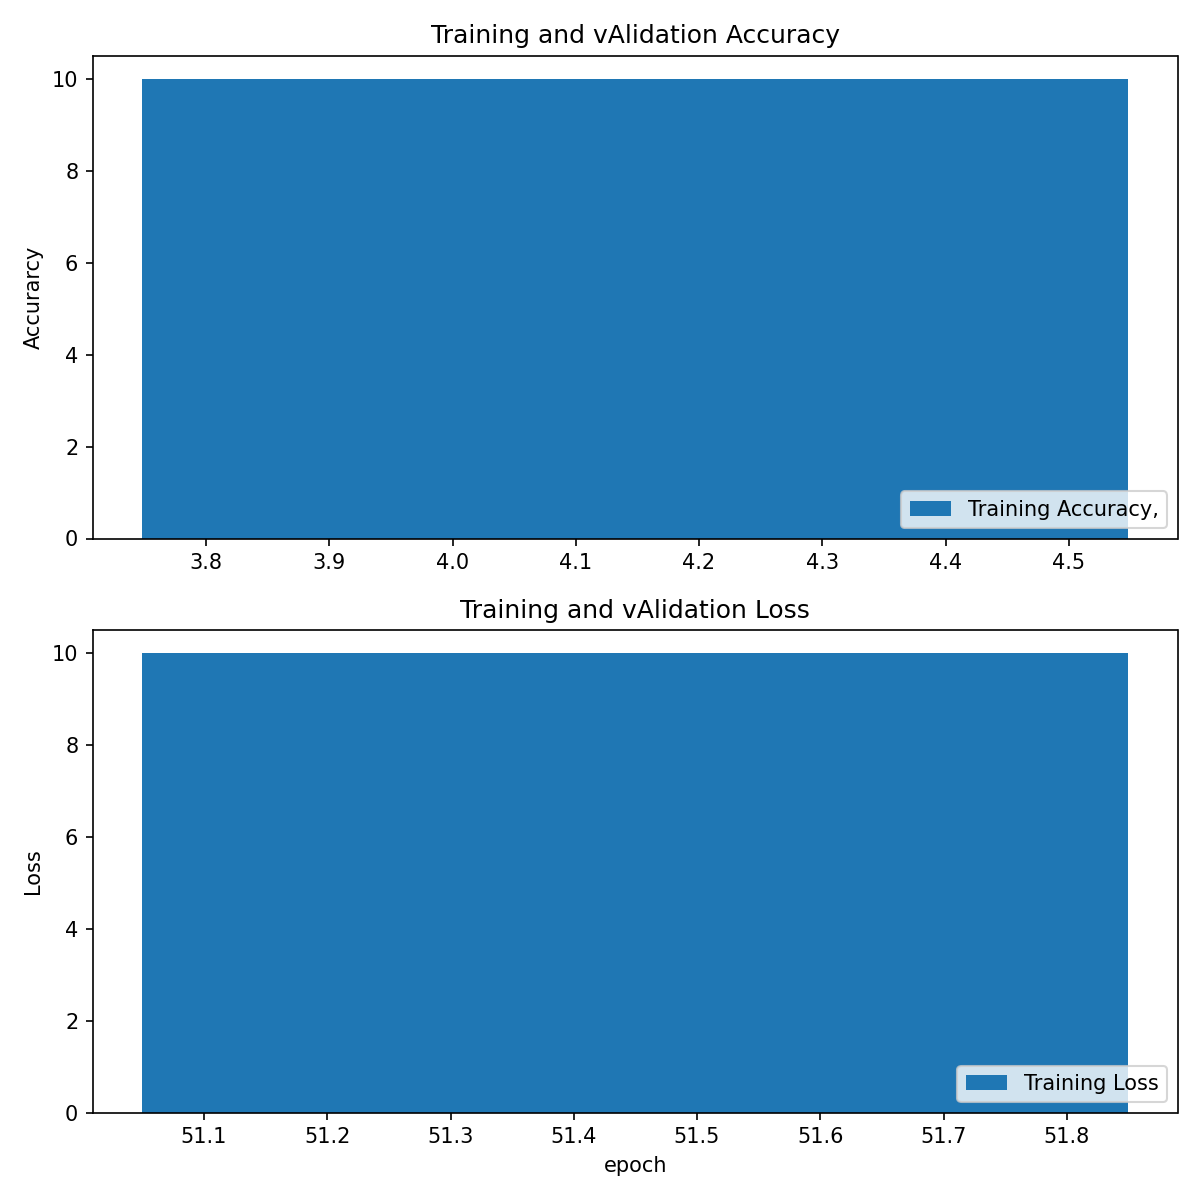
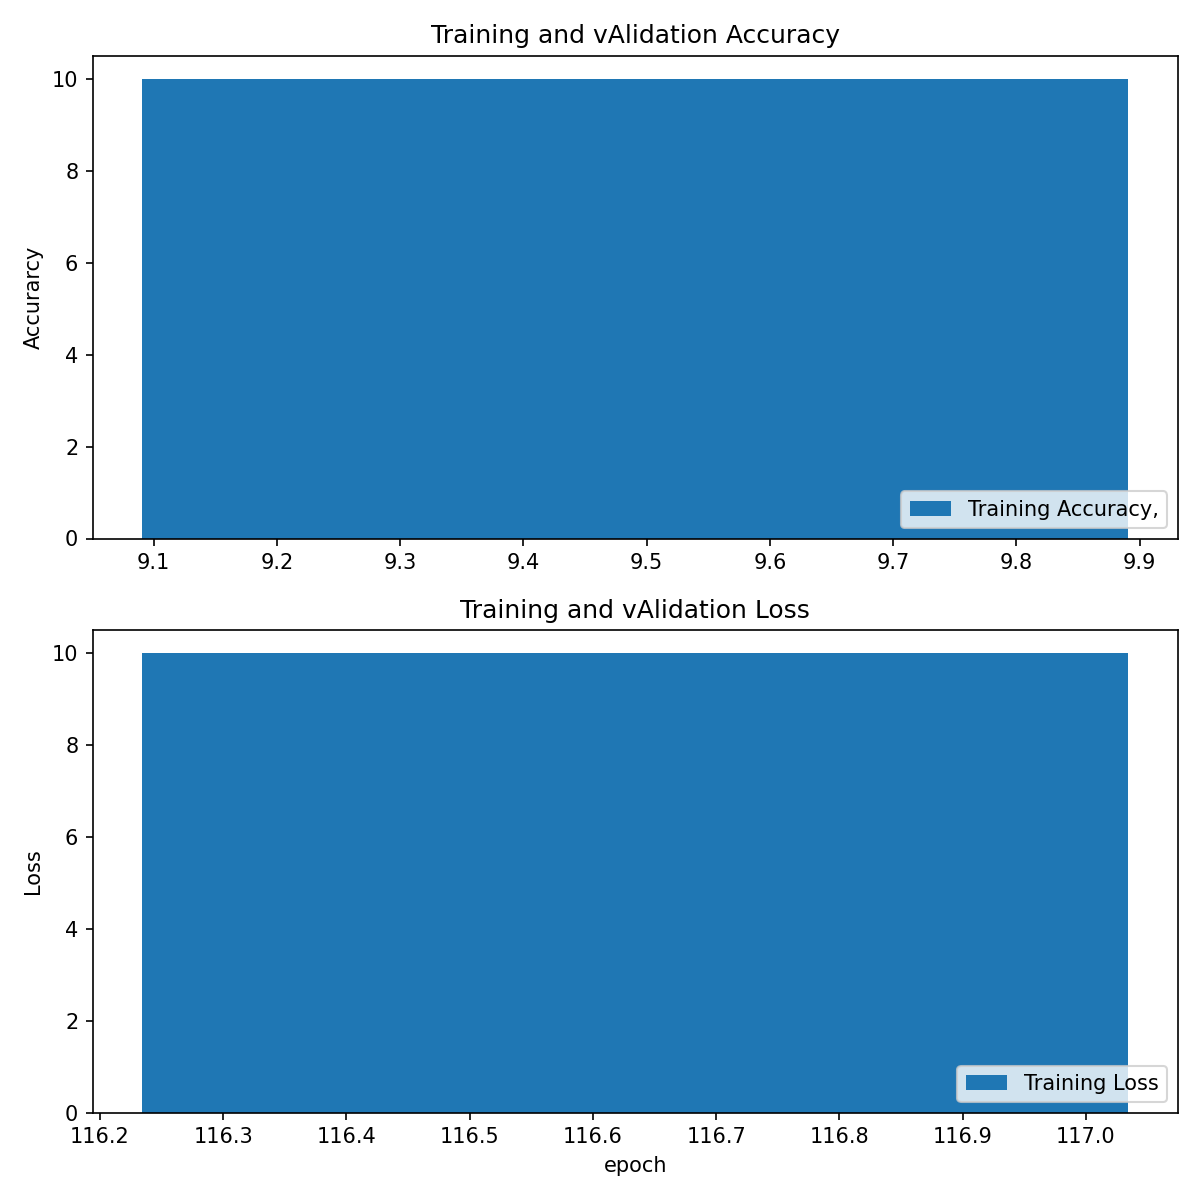
added wgan first phase

diff --git a/src/models/wgangp.py b/src/models/wgangp.py
@@ -15,14 +15,127 @@ logger = tf.get_logger()
 logger.setLevel(logging.ERROR)
 
 
+
+crossEntropy = tf.keras.losses.BinaryCrossentropy(from_logits=True)
+
 class Generator:
     def __init__(self):
        self.model = tf.keras.Sequential()
-       self.model.add(layers.Dense(7*7*256,use_bias=False, input_shape=(4,)))
+       self.model.add(layers.Dense(15*15*256,use_bias=False, input_shape=(4,)))
        self.model.add(layers.BatchNormalization())
        self.model.add(layers.LeakyReLU())
 
-       self.model.add
+       self.model.add(layers.Reshape((15,15,256)))
+       assert self.model.output_shape == (None, 15,15,256)
 
-def train_wagangp():
-    None
+       self.model.add(layers.Conv2DTranspose(128, (5,5), strides=(2,2), padding='same', use_bias=False))
+       assert self.model.output_shape == (None,30,30, 128)
+       self.model.add(layers.BatchNormalization())
+       self.model.add(layers.LeakyReLU())
+
+       self.model.add(layers.Conv2DTranspose(64, (5,5), strides=(2,2), padding='same', use_bias=False))
+       assert self.model.output_shape == (None,60,60, 64)
+       self.model.add(layers.BatchNormalization())
+       self.model.add(layers.LeakyReLU())
+
+       self.model.add(layers.Conv2DTranspose(32, (5,5), strides=(2,2), padding='same', use_bias=False))
+       assert self.model.output_shape == (None,120,120, 32)
+       self.model.add(layers.BatchNormalization())
+       self.model.add(layers.LeakyReLU())
+
+       self.model.add(layers.Conv2DTranspose(16, (5,5), strides=(2,2), padding='same', use_bias=False))
+       assert self.model.output_shape == (None,240,240, 16)
+       self.model.add(layers.BatchNormalization())
+       self.model.add(layers.LeakyReLU())
+
+       self.model.add(layers.Conv2DTranspose(3, (5,5), strides=(2,2), padding='same', use_bias=False, activation='tanh'))
+       assert self.model.output_shape == (None,480,480, 3)
+       print(f'gen shape is {self.model.summary()}')
+
+    def getLoss(self,output):
+        return crossEntropy(tf.ones_like(output), output)
+    
+
+
+
+
+class Discrimintator: 
+    def __init__(self):
+        self.model = tf.keras.Sequential()
+        self.model.add(layers.Conv2D(64, (5,5), strides = (2,2), padding='same', input_shape= [480,480,3]))
+        self.model.add(layers.LeakyReLU())
+        self.model.add(layers.Dropout(0.3))
+
+        self.model.add(layers.Conv2D(128, (5,5), strides = (2,2), padding='same'))
+        self.model.add(layers.LeakyReLU())
+        self.model.add(layers.Dropout(0.3))
+
+        self.model.add(layers.Flatten())
+        self.model.add(layers.Dense(1))
+        print(f'disc shape is {self.model.summary()}')
+
+    def getLoss(self,real,fake):
+        realLoss = crossEntropy(tf.ones_like(real), real)
+        fakeLoss = crossEntropy(tf.zeros_like(fake),fake)
+        totalLoss = realLoss + fakeLoss
+        return totalLoss
+
+
+genOptimizer = tf.keras.optimizers.Adam(1e-4)
+discOptimzer = tf.keras.optimizers.Adam(1e-4)
+
+def trainStep(gen,disc,images):
+
+    noise = tf.random.normal([tf.shape(images)[0], 4])
+
+
+    with tf.GradientTape() as genTape, tf.GradientTape() as discTape:
+        genImages = gen.model(noise,training= True)
+
+        real = disc.model(images, training = True)
+        fake = disc.model(genImages, training =True)
+
+        lossforGen = gen.getLoss(fake)
+
+        lossforDisc =disc.getLoss(real,fake)
+
+       
+
+    gradforGen = genTape.gradient(lossforGen, gen.model.trainable_variables)
+    gradforDisc = discTape.gradient(lossforDisc, disc.model.trainable_variables)
+    
+    genOptimizer.apply_gradients(zip(gradforGen, gen.model.trainable_variables))
+    discOptimzer.apply_gradients(zip(gradforDisc, disc.model.trainable_variables))
+
+    return lossforGen, lossforDisc
+
+def train_wagangp(gen,disc,dataset,epochs):
+    fixedNoise = tf.random.normal([1,4])
+    os.makedirs("gen_samples",exist_ok=True)
+
+    for epoch in range(epochs):
+        start = time.time()
+
+        images = next(iter(dataset))
+        print(images.shape)
+        genLoss, discLoss =trainStep(gen,disc,images)
+
+        print(f'EPICH {epoch + 1} GenLoss : {genLoss.numpy():.4f} discLoss{discLoss.numpy():.4f}')
+
+        # make for each
+        genImage = gen.model(fixedNoise,training= False)[0].numpy()
+        pixels = ((genImage+ 1) * 127.5).clip(0,255).astype(np.uint8)
+        imageio.imwrite(f"gen_samples/epoch_{epoch +1}.png",pixels)
+        
+
+
+
+def loadDataSet(dataset,batch):
+                def pairs():
+                   for i in dataset.contents:
+                       yield np.array(i, dtype=np.float32) / 127.5 -1 
+
+                return tf.data.Dataset.from_generator(
+                           pairs,
+                           output_signature= tf.TensorSpec(shape=(480,480,3), dtype=tf.float32),
+                       ).shuffle(30).batch(batch)

diff --git a/src/main.py b/src/main.py
@@ -5,6 +5,7 @@ import utils.dataset_utils as dsUtils
 from models.behaviorcloning import CNN
 import PIL.Image as Image
 import utils.plotter_utils as plotter
+import models.wgangp as WGAN
 
 
 
@@ -52,3 +53,13 @@ policy.plotTestData()
 
 #policy.identifyActions(img)
 
+
+## okay now the gan 
+gen = WGAN.Generator()
+disc = WGAN.Discrimintator()
+
+# load the dataset and train 
+
+genTrainSet = WGAN.loadDataSet(genTrainSet,4)
+
+WGAN.train_wagangp(gen,disc,genTrainSet,5)
